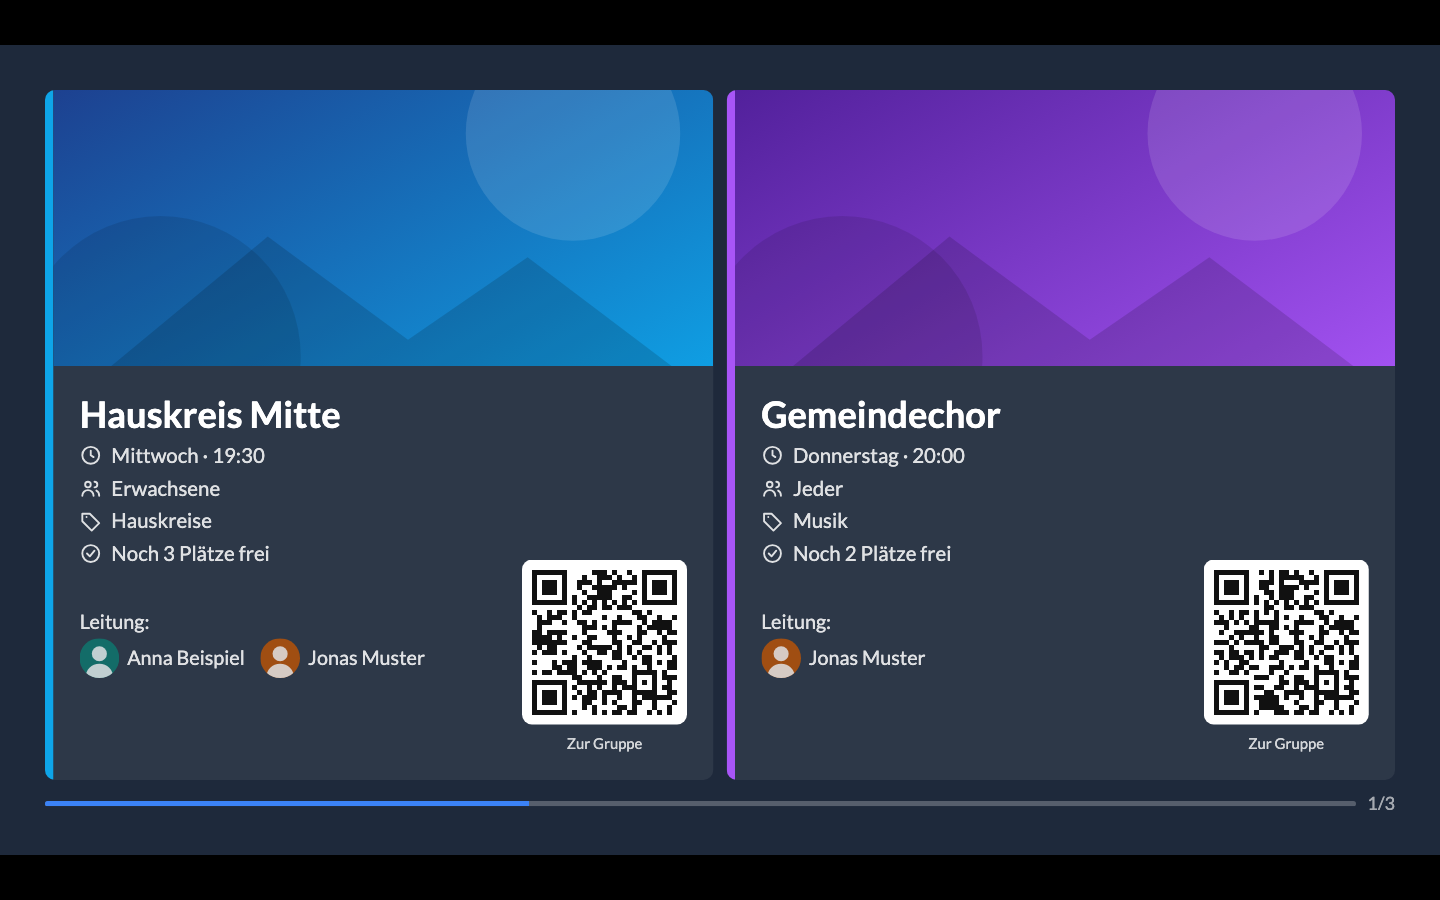
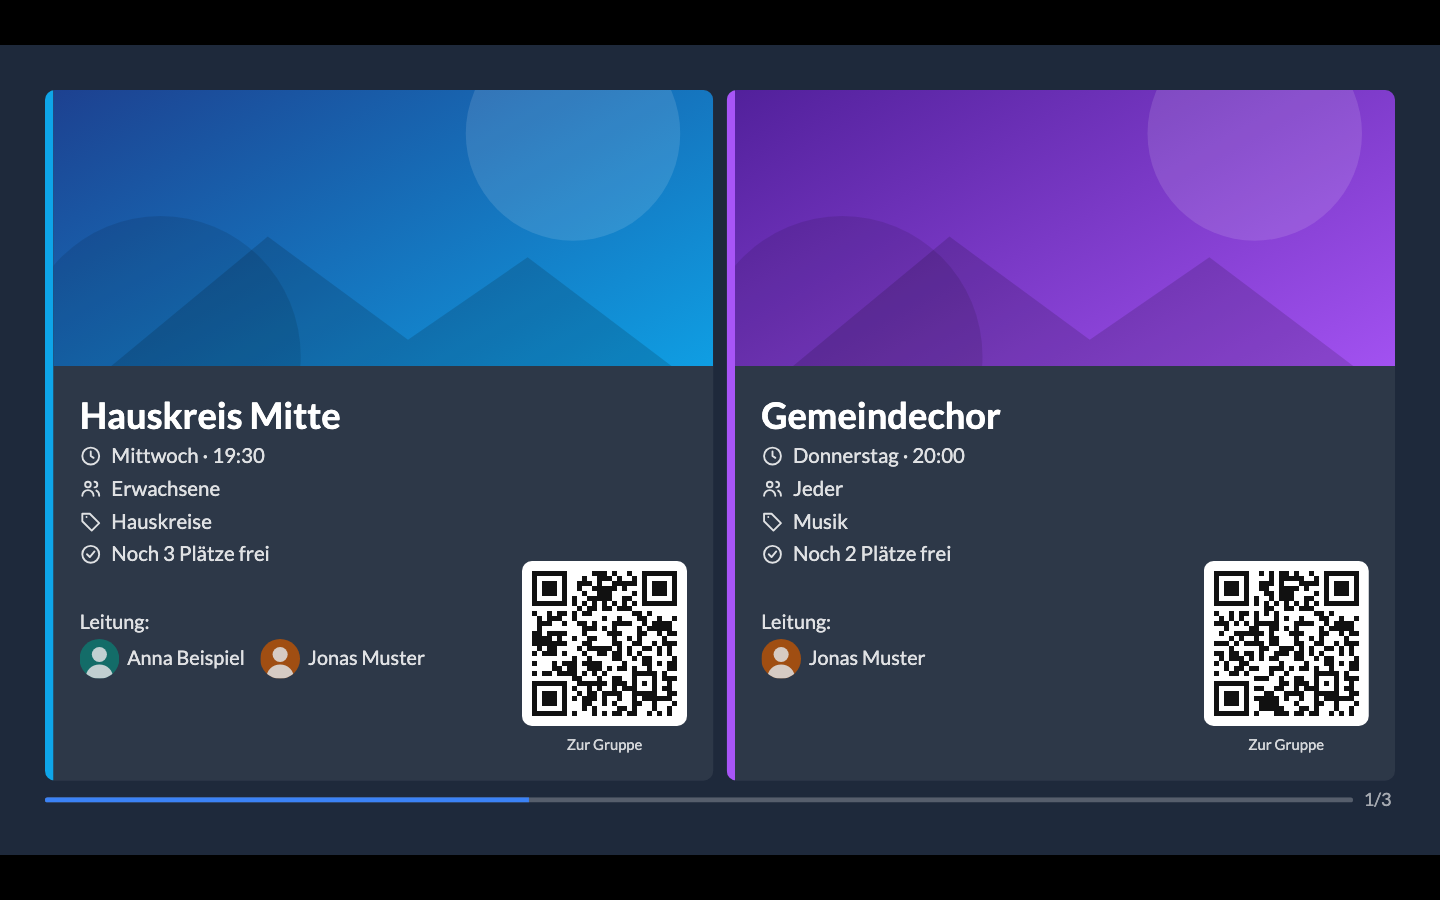
Fortschrittsbalken überall gleich groß, Zahl der Listen nicht mehr abgeschnitten
Die Balken der Listen und Beiträge wuchsen mit der Schriftgröße des Bausteins, Galerie und
Liedblatt hatten eine eigene feste Größe. Jetzt haben alle die Maße des Präsentationsbalkens
(src/player/progress-size.ts); die Listen halten dafür einen festen Platz frei. Unter der
Seitenzahl der Listen bleibt Luft, damit der Baustein sie nicht abschneidet.

diff --git a/src/player/blocks/PageProgress.vue b/src/player/blocks/PageProgress.vue
@@ -4,25 +4,26 @@
  * the next (schema 1.47, Plan.md 105). The same pill track and bar as the page bar of AppointmentListView.vue, lifted off
  * the edge, with the page number beside it like there; at the edge without. With `segments` (Plan.md 109) one segment
  * per page instead, without the number. Where nothing turns (`held`, the designer's stage) the bar stands at 40 %.
- * The parent restarts it with a `:key` whenever the page changes; sizes are stage pixels.
+ * The parent restarts it with a `:key` whenever the page changes. The size is the same for every block (progress-size.ts), in stage pixels.
  */
 import PageSegments from './PageSegments.vue';
+import { PROGRESS_FONT_PX, PROGRESS_INSET_PX, PROGRESS_TRACK_PX } from '../progress-size';
 
 /** `color` tints the pale track and the number; without it the block's text colour does – a gallery has none of its own.
  * `offset` = seconds of the page that are over already (the bar starts that far in). `number` counts from 1 and shows beside the bar from two pages on. */
-defineProps<{ seconds: number; size: number; inset: number; color?: string; edge?: boolean; number?: number; total?: number; segments?: boolean; held?: boolean; offset?: number }>();
+defineProps<{ seconds: number; color?: string; edge?: boolean; number?: number; total?: number; segments?: boolean; held?: boolean; offset?: number }>();
 </script>
 
 <template>
     <div
         class="page-progress"
         :class="{ 'page-progress--edge': edge }"
-        :style="{ '--segment-height': `${size}px`, '--segment-gap': `${size}px`, fontSize: `${size / 0.3}px`, right: `${edge ? 0 : inset}px`, bottom: `${edge ? 0 : inset}px`, left: `${edge ? 0 : inset}px`, color }"
+        :style="{ '--segment-height': `${PROGRESS_TRACK_PX}px`, '--segment-gap': `${PROGRESS_TRACK_PX}px`, fontSize: `${PROGRESS_FONT_PX}px`, right: `${edge ? 0 : PROGRESS_INSET_PX}px`, bottom: `${edge ? 0 : PROGRESS_INSET_PX}px`, left: `${edge ? 0 : PROGRESS_INSET_PX}px`, color }"
         data-testid="page-progress"
         aria-hidden="true"
     >
         <PageSegments v-if="segments" :count="total ?? 1" :current="(number ?? 1) - 1" :seconds="held ? 0 : seconds" :held="held" :edge="edge" fill-testid="page-progress-bar" />
-        <span v-else class="track" :style="{ height: `${size}px` }">
+        <span v-else class="track">
             <span v-if="!held" class="progress" data-testid="page-progress-bar" :style="{ animationDuration: `${seconds}s`, ...(offset ? { animationDelay: `-${offset}s` } : {}) }" />
             <span v-else class="progress progress--held" />
         </span>

diff --git a/src/player/blocks/AppointmentListView.vue b/src/player/blocks/AppointmentListView.vue
@@ -14,6 +14,7 @@ import type { Block } from '../../model/schema';
 import { themeOf, useStageContext } from '../context';
 import { textStyle } from '../format';
 import { PAGE_SECONDS, pageInterval, pageProgressEdge, pageProgressSegments, pageProgressShown, paginateByHeight, SHOW_ALL_CAP, movePage, reportTurn } from '../paging';
+import { progressReserve } from '../progress-size';
 import { listLayout } from '../theme';
 import AppointmentRow from './AppointmentRow.vue';
 import PageSegments from './PageSegments.vue';
@@ -52,14 +53,14 @@ function measure(): void {
 
 /** The whole bar, the figures included, can be switched off (Plan.md 105); its room then goes to the rows. */
 const progressOn = computed(() => pageProgressShown(props.block, context));
-/** The page bar at the bottom: 0.55em text and a little air. */
+/** The page bar at the bottom: the number at a fixed size (progress-size.ts) and a little air. */
 const edge = computed(() => pageProgressEdge(props.block));
 /** One segment per page instead of the bar with the number (Plan.md 109). */
 const segments = computed(() => pageProgressSegments(props.block));
 /** The designer's stage turns no pages: the bar then stands at 40 % (Plan.md 109). */
 const held = computed(() => context.paging === false);
 /** Room kept free for the page bar; the edge line is thinner and has no number beside it. */
-const reserve = computed(() => (progressOn.value ? props.block.style.fontSize * (edge.value ? 0.365 : 0.9) : 0));
+const reserve = computed(() => (progressOn.value ? progressReserve(edge.value) : 0));
 /** Without "alle Termine" only the rows that fit whole – a row cut off at the bottom looks broken. */
 const pages = computed(() =>
     props.block.showAll
@@ -199,10 +200,6 @@ onBeforeUnmount(() => {
     bottom: var(--list-inset);
     left: var(--list-inset);
     right: var(--list-inset);
-}
-.paged--visitor .pager--segments {
-    font-size: 1em;
-    --segment-height: 0.16em;
 }
 .paged--visitor .pager--edge {
     right: 0;

diff --git a/src/player/blocks/RoomsView.vue b/src/player/blocks/RoomsView.vue
@@ -12,6 +12,7 @@ import { doorSign, emptyText, overviewRows } from '../../rooms/display';
 import { useStageContext } from '../context';
 import { textStyle } from '../format';
 import { PAGE_SECONDS, pageInterval, pageProgressEdge, pageProgressSegments, pageProgressShown, paginateByHeight, movePage, reportTurn } from '../paging';
+import { progressReserve } from '../progress-size';
 import PageSegments from './PageSegments.vue';
 import RoomRow from './RoomRow.vue';
 import { tp } from '../../i18n/player';
@@ -50,7 +51,7 @@ function measure(): void {
     heights.value = items ? [...items].map((row) => row.offsetHeight) : [];
 }
 
-/** The page bar at the bottom: 0.55em text and a little air, like AppointmentListView's. */
+/** The page bar at the bottom: the number at a fixed size (progress-size.ts) and a little air, like AppointmentListView's. */
 const progressOn = computed(() => pageProgressShown(props.block, context));
 const edge = computed(() => pageProgressEdge(props.block));
 /** One segment per page instead of the bar with the number (Plan.md 109). */
@@ -58,7 +59,7 @@ const segments = computed(() => pageProgressSegments(props.block));
 /** The designer's stage turns no pages: the bar then stands at 40 % (Plan.md 109). */
 const held = computed(() => context.paging === false);
 /** Room kept free for the page bar; the edge line is thinner and has no number beside it. */
-const reserve = computed(() => (progressOn.value ? props.block.style.fontSize * (edge.value ? 0.365 : 0.9) : 0));
+const reserve = computed(() => (progressOn.value ? progressReserve(edge.value) : 0));
 const pages = computed(() => paginateByHeight(rows.value, heights.value, props.block.height, reserve.value));
 const page = ref(0);
 const shown = computed(() => pages.value[page.value % Math.max(1, pages.value.length)] ?? []);

diff --git a/src/player/blocks/GroupsView.vue b/src/player/blocks/GroupsView.vue
@@ -13,6 +13,7 @@ import { IMAGE_RATIOS, type Block } from '../../model/schema';
 import { imageSource, themeOf, useStageContext } from '../context';
 import { sizedImageUrl, textStyle } from '../format';
 import { GROUP_SECONDS, pageInterval, pageProgressEdge, pageProgressSegments, pageProgressShown, paginateByHeight, movePage, reportTurn } from '../paging';
+import { progressReserve } from '../progress-size';
 import { qrShape } from '../qr';
 import MdBlocks from './MdBlocks.vue';
 import CalendarBadge from './CalendarBadge.vue';
@@ -36,7 +37,7 @@ function hideOnError(event: Event): void {
 
 // --- pages: both layouts turn them the same way, with the same bar as AppointmentListView ---
 
-/** The page bar at the bottom: 0.55em text and a little air, like AppointmentListView's. */
+/** The page bar at the bottom: the number at a fixed size (progress-size.ts) and a little air, like AppointmentListView's. */
 const progressOn = computed(() => pageProgressShown(props.block, context));
 const edge = computed(() => pageProgressEdge(props.block));
 /** One segment per page instead of the bar with the number (Plan.md 109). */
@@ -44,7 +45,7 @@ const segments = computed(() => pageProgressSegments(props.block));
 /** The designer's stage turns no pages: the bar then stands at 40 % (Plan.md 109). */
 const held = computed(() => context.paging === false);
 /** Room kept free for the page bar; the edge line is thinner and has no number beside it. */
-const reserve = computed(() => (progressOn.value ? props.block.style.fontSize * (edge.value ? 0.365 : 0.9) : 0));
+const reserve = computed(() => (progressOn.value ? progressReserve(edge.value) : 0));
 
 /** Card: `perPage` groups a page (wish of the user, 2026-09-29). */
 const cardPages = computed(() => {

diff --git a/src/player/progress-size.ts b/src/player/progress-size.ts
@@ -1,0 +1,29 @@
+/**
+ * One size for every progress bar, whatever the block's font size ("ein Maß für alle Fortschrittsbalken", user 2026-11-25).
+ * The yardstick is the bar of the whole presentation (ProgressBar.vue); the page bars of lists, posts, gallery and
+ * songsheet match it in stage pixels. All sizes derive from the number's font size, as `em` does in the CSS.
+ */
+
+/** Font size of the page number; the track (`0.3em`) and the gaps (`0.6em`, segments `0.3em`) scale from it. */
+export const PROGRESS_FONT_PX = 24;
+/** Thickness of the track: 0.3em of the number. */
+export const PROGRESS_TRACK_PX = PROGRESS_FONT_PX * 0.3;
+/** Distance of the bar blocks draw over their content (gallery, posts, songsheet) from the block's edges. */
+export const PROGRESS_INSET_PX = 16;
+/** Air below and right of a list's page number, so the glyphs (the block clips them) are not cut off: 0.2em. */
+export const PROGRESS_PAD_PX = PROGRESS_FONT_PX * 0.2;
+/**
+ * Air between the last row and the number above it: a little more than the 0.4em the old reserve (0.9em) left over the
+ * number's 0.55em – the bar must not touch the row's divider line.
+ */
+const AIR_PX = 10;
+/** Air above the edge line: the old reserve left 0.2em of the block font over the 0.165em line, at the usual 45 px font about 9 px. */
+const EDGE_AIR_PX = 9;
+
+/**
+ * Room a paged list keeps free at the bottom. With the number: its line (1em), the air below it and the air above
+ * (about 39 px, as the old 0.9 × block font did at the usual size). At the edge: only the track and some air (about 16 px).
+ */
+export function progressReserve(edge: boolean): number {
+    return edge ? Math.round(PROGRESS_TRACK_PX + EDGE_AIR_PX) : PROGRESS_FONT_PX + PROGRESS_PAD_PX + AIR_PX;
+}

diff --git a/src/player/progress-size.test.ts b/src/player/progress-size.test.ts
@@ -1,0 +1,25 @@
+import { readFileSync } from 'node:fs';
+import { resolve } from 'node:path';
+import { describe, expect, it } from 'vitest';
+import { PROGRESS_FONT_PX, PROGRESS_PAD_PX, progressReserve } from './progress-size';
+
+describe('progress size', () => {
+    it('keeps the list pager CSS at the shared font size', () => {
+        const css = readFileSync(resolve(process.cwd(), 'src/player/blocks/pager.css'), 'utf8');
+        expect(css).toContain(`font-size: ${PROGRESS_FONT_PX}px;`);
+        // The air under and right of the number, in em of the same font, is what the reserve counts as PROGRESS_PAD_PX.
+        const padEm = Math.round((PROGRESS_PAD_PX / PROGRESS_FONT_PX) * 100) / 100;
+        expect(css).toContain(`padding: 0 ${padEm}em ${padEm}em 0;`);
+    });
+
+    it('keeps the bar of the whole presentation at the shared font size', () => {
+        const vue = readFileSync(resolve(process.cwd(), 'src/player/ProgressBar.vue'), 'utf8');
+        expect(vue).toContain(`font-size: ${PROGRESS_FONT_PX}px;`);
+    });
+
+    it('keeps less room for the edge line than for the bar with the number', () => {
+        expect(progressReserve(true)).toBe(16);
+        // Number line, the air under it and the air over it.
+        expect(progressReserve(false)).toBeCloseTo(38.8);
+    });
+});

diff --git a/src/player/blocks/PeopleView.vue b/src/player/blocks/PeopleView.vue
@@ -12,6 +12,7 @@ import type { Block } from '../../model/schema';
 import { imageSource, themeOf, useStageContext } from '../context';
 import { formatNumericDate, formatTime, sizedImageUrl, textStyle } from '../format';
 import { PEOPLE_SECONDS, pageInterval, paginateByHeight, pageProgressEdge, pageProgressSegments, pageProgressShown, movePage, reportTurn } from '../paging';
+import { progressReserve } from '../progress-size';
 import MdBlocks from './MdBlocks.vue';
 import PageSegments from './PageSegments.vue';
 import { tp } from '../../i18n/player';
@@ -48,7 +49,7 @@ const edge = computed(() => pageProgressEdge(props.block));
 const segments = computed(() => pageProgressSegments(props.block));
 const held = computed(() => context.paging === false);
 /** Room kept free for the page bar; the edge line is thinner and has no number beside it. */
-const reserve = computed(() => (progressOn.value ? props.block.style.fontSize * (edge.value ? 0.365 : 0.9) : 0));
+const reserve = computed(() => (progressOn.value ? progressReserve(edge.value) : 0));
 
 const isList = computed(() => props.block.layout === 'list');
 

diff --git a/src/player/blocks/SlideshowView.vue b/src/player/blocks/SlideshowView.vue
@@ -168,7 +168,7 @@ const motionSeconds = computed(() => pageInterval(props.block.seconds ?? 6, prop
             <img v-if="url" class="picture" :src="url" :style="{ objectFit: block.fit }" alt="">
         </div>
         <!-- Keyed by the picture really on show: `advance` waits for the decoding, the bar starts over with the picture. -->
-        <PageProgress v-if="(turnSeconds || (still && urls.length > 1)) && pageProgressShown(block, context)" :key="index" :seconds="turnSeconds" :held="still" :segments="pageProgressSegments(block)" :size="8" :inset="16" :color="themeOf(context).text" :edge="pageProgressEdge(block)" :number="index + 1" :total="urls.length" />
+        <PageProgress v-if="(turnSeconds || (still && urls.length > 1)) && pageProgressShown(block, context)" :key="index" :seconds="turnSeconds" :held="still" :segments="pageProgressSegments(block)" :color="themeOf(context).text" :edge="pageProgressEdge(block)" :number="index + 1" :total="urls.length" />
     </div>
     <!-- A calm placeholder, never a broken-image icon on a TV. -->
     <div v-else class="placeholder" />

diff --git a/src/player/blocks/PostsView.vue b/src/player/blocks/PostsView.vue
@@ -233,7 +233,7 @@ onMounted(() => {
             </div>
         </template>
         <div v-else class="hero-text hero-subtitle" data-testid="posts-empty">{{ tp.posts.none }}</div>
-        <PageProgress v-if="(turnSeconds || (still && block.layout === 'card' && items.length > 1)) && pageProgressShown(block, context)" :key="page" :seconds="turnSeconds" :held="still" :segments="pageProgressSegments(block)" :size="block.style.fontSize * 0.165" :inset="block.style.fontSize * 0.8" :edge="pageProgressEdge(block)" :number="(page % items.length) + 1" :total="items.length" />
+        <PageProgress v-if="(turnSeconds || (still && block.layout === 'card' && items.length > 1)) && pageProgressShown(block, context)" :key="page" :seconds="turnSeconds" :held="still" :segments="pageProgressSegments(block)" :edge="pageProgressEdge(block)" :number="(page % items.length) + 1" :total="items.length" />
     </div>
 </template>
 

diff --git a/src/player/blocks/SongsheetView.vue b/src/player/blocks/SongsheetView.vue
@@ -329,7 +329,7 @@ const headStyle = computed(() => ({
             <div class="line">&nbsp;</div>
         </div>
         <div v-if="sheet?.footer" class="foot" :style="{ fontSize: `${0.22 * Math.min(1, scale)}em` }" data-testid="songsheet-footer">{{ sheet.footer }}</div>
-        <PageProgress v-if="paged" :key="page" :seconds="turnSeconds" :held="held" :offset="pageOffset" :size="8" :inset="16" :number="page + 1" :total="pages" :color="themeOf(context).text" />
+        <PageProgress v-if="paged" :key="page" :seconds="turnSeconds" :held="held" :offset="pageOffset" :number="page + 1" :total="pages" :color="themeOf(context).text" />
     </div>
     <!-- Source "Probe" before the first choice: the way to the phone page stands where the song will be – only once the choice was read,
          so that the code does not flash up while the player starts (user, 2026-11-13). -->

diff --git a/src/player/blocks/pager.css b/src/player/blocks/pager.css
@@ -7,7 +7,13 @@
     display: flex;
     align-items: center;
     gap: 0.6em;
-    font-size: 0.55em;
+    /* The same fixed size as every progress bar, not the block's: keep equal to PROGRESS_FONT_PX (progress-size.ts, a test checks). */
+    font-size: 24px;
+    /* Air below and right so the number, which the block clips, is not cut off; PROGRESS_PAD_PX = 0.2em. */
+    padding: 0 0.2em 0.2em 0;
+}
+.pager--edge {
+    padding: 0;
 }
 .pager--edge .track {
     border-radius: 0;

diff --git a/src/player/ProgressBar.vue b/src/player/ProgressBar.vue
@@ -89,6 +89,7 @@ watch(() => [props.startedAt, props.seconds, props.held, props.number, props.seg
     display: flex;
     align-items: center;
     gap: 0.6em;
+    /* PROGRESS_FONT_PX (progress-size.ts): a fixed value, no runtime CSS variable on a weak player; a test keeps both alike. */
     font-size: 24px;
     pointer-events: none;
 }
